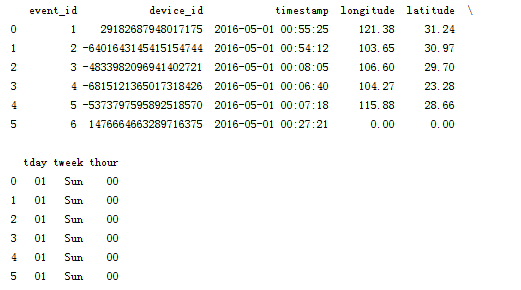
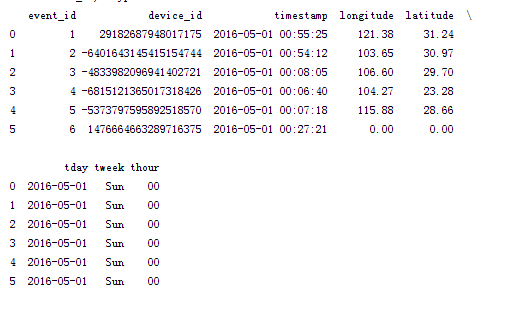
edit by pyy

diff --git a/python/eda/Events.md b/python/eda/Events.md
@@ -10,14 +10,13 @@ import time
 
 events = pd.read_csv('kaggledata/events.csv')
 
-##Events
 print events.ix[0:5,:]
 event_num=events.groupby(["device_id"]).count()['event_id'].copy(deep=True)
 print event_num[0:5]
 
 timestamp=events['timestamp'].copy(deep=True)
 timestamp_format=map(lambda x: time.localtime(time.mktime(time.strptime(x,"%Y-%m-%d %H:%M:%S"))),timestamp)
-tday=map(lambda x:time.strftime('%d',x),timestamp_format)##extract the day of a month
+tday=map(lambda x:time.strftime('%Y-%m-%d',x),timestamp_format)##extract the day of a month
 tweek=map(lambda x:time.strftime('%a',x),timestamp_format)### extract the day of a week
 thour=map(lambda x:time.strftime('%H',x),timestamp_format)###extract the Hour of a day
 
@@ -32,4 +31,51 @@ events1.to_csv('kaggledata/events1.csv')
 
 ![test pic](/python/eda/pic_events/events1.png)
 
+#1、不同时间，用户登录情况
+##不同日期
+```
+p=events1.thour.value_counts().sort_index().plot(kind='bar',figsize=(15,6),rot=0)
+_=p.set_xlabel('Hour'),p.set_ylabel('Count')
+plt.title('Hour')
+plt.show()
+x=events1.thour.value_counts()
+print x
+```
 
+![test pic](/python/eda/pic_events/date_data.png)
+
+![test pic](/python/eda/pic_events/date.png)
+
+大部分集中在5月1日--5月7日之间
+
+##不同时段
+```
+events1= pd.read_csv('kaggledata/events1.csv')
+## when did people use their devices?
+events2=events1.copy(deep=True)
+events2['thour']=map(lambda x: '%02.f:00-%02.f:59 ' % (x,x),events1.thour)
+count=events2.thour.value_counts().sort_index()
+count_prop=count/count.sum()
+count_prop1=map(lambda x:'%.2f %%'%(x*100),count_prop)
+count_prop2=pd.Series(count_prop1,index=count_prop.index)
+
+p=events2.thour.value_counts().sort_index().plot(kind='bar',figsize=(10,5),rot=0)
+_=p.set_xlabel('Hour'),p.set_ylabel('Count')
+plt.title('When did people use their devices in a day?')
+plt.xticks(rotation=45,fontsize=6.5,weight='bold')
+p1=p.twinx()
+p1.plot(p.get_xticks(),count_prop*100, linestyle='-', marker='.', linewidth=2.0,color='g')
+p1.set_ylabel('Proportion:(%)')
+plt.show()
+```
+不同时段流量计数，如下：
+
+![test pic](/python/eda/pic_events/thout_data.png)
+
+不同时段流量的百分比，如下：
+
+![test pic](/python/eda/pic_events/thout_data1.png)
+
+不同时段流量计数、百分比图，如下：
+
+![test pic](/python/eda/pic_events/thout.png)
